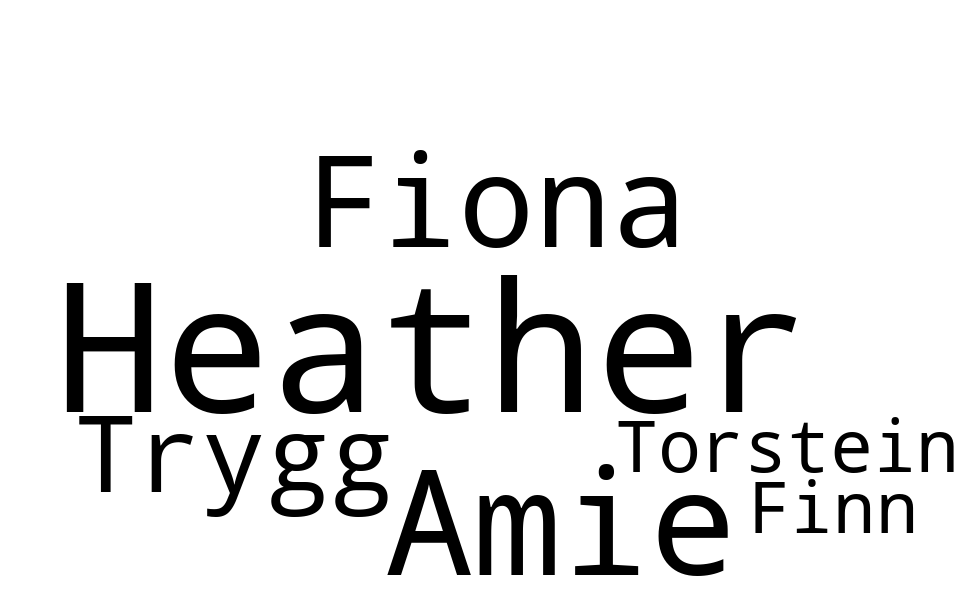
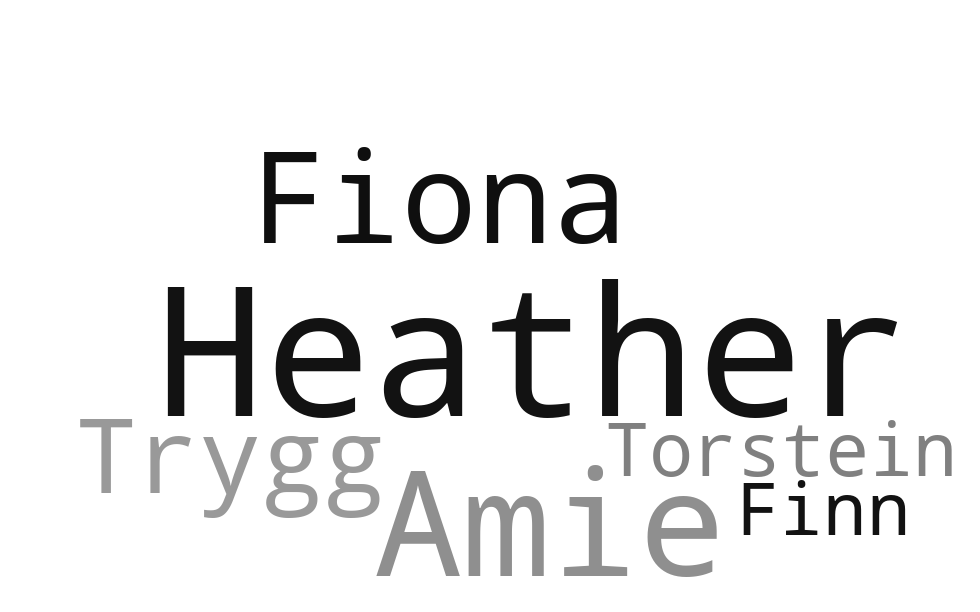
add helper functions for senders and content

Changed region(s): [[0.0612, 0.4346, 0.9796, 0.9624], [0.2449, 0.2484, 0.7041, 0.4036]]

diff --git a/messenger-wc.py b/messenger-wc.py
@@ -6,106 +6,85 @@ from PIL import Image
 import numpy as np
 from stop_words import get_stop_words
 import multidict as multidict
-norwegian_stop_words = get_stop_words('norwegian')
+
 extra_words = """
 å alle at av både båe bare begge ble blei bli blir blitt då da de deg dei deim deira deires dem den denne der dere deres det dette di din disse ditt du dykk dykkar eg ein eit eitt eller elles en enn er et ett etter før for fordi fra ha hadde han hans har hennar henne hennes her hjå ho hoe honom hoss hossen hun hva hvem hver hvilke hvilken hvis hvor hvordan hvorfor i ikke ikkje ingen ingi inkje inn inni ja jeg kan kom korleis korso kun kunne kva kvar kvarhelst kven kvi kvifor man mange me med medan meg meget mellom men mi min mine mitt mot mykje nå når ned no noe noen noka noko nokon nokor nokre og også om opp oss over på så sånn samme seg selv si sia sidan siden sin sine sitt sjøl skal skulle slik so som somme somt til um upp ut uten vår være vært var vart varte ved vere verte vi vil ville vore vors vort
 """.split()
 
-def brown_color_func(word, font_size, position, orientation,  random_state=None,  **kwargs):
-    return "hsl(20, 0%, 0%)"
+norwegian_stop_words = get_stop_words('norwegian')
 currdir = os.path.dirname(__file__)
+def color_func(word, font_size, position, orientation,  **kwargs):
+    return "hsl(20, 0%, " + str(random.randint(0,60)) + "%)"
+
 def get_json_data_from_file(filename):
     with open(filename) as f:
         data = json.load(f)
     return data
 
-
-def create_string():
-    data1 = get_json_data_from_file("message_1.json")
-    data2 = get_json_data_from_file("message_2.json")
-
-    string = ""
-    for message in data1["messages"]:
-        string += " " 
-        string += message["sender_name"].split()[0]
-    for message in data2["messages"]:
-        string += " " 
-        string += message["sender_name"].split()[0]
-    return string
-
+def update_table_senders(table, message):
+    if message["sender_name"].split()[0] in table:
+        table[message["sender_name"].split()[0]] +=1
+    else:
+        table[message["sender_name"].split()[0]] = 0
+    
 def create_table_from_senders():
     data1 = get_json_data_from_file("message_1.json")
     data2 = get_json_data_from_file("message_2.json")
 
-    maxFreq = 0
-    maxName = ""
     table =dict()
     for message in data1["messages"]:
-        if message["sender_name"].split()[0] in table:
-            table[message["sender_name"].split()[0]] +=1
-        else:
-            table[message["sender_name"].split()[0]] = 0
+        update_table_senders(table, message)
     for message in data2["messages"]:
-        if message["sender_name"].split()[0] in table:
-            table[message["sender_name"].split()[0]] +=1
-        else:
-            table[message["sender_name"].split()[0]] = 0
+        update_table_senders(table, message)
     multiDictTable = multidict.MultiDict()
-    total = 0
+    total, maxFreq, maxName = 0, 0, ""
     for key in table:
         if table[key] > maxFreq:
             maxFreq = table[key]
             maxName = key
         multiDictTable.add(key, table[key])
         total += int(table[key])
+        
     for name in table:
         print(name, " has ", int(table[name])/float(total)*100, "% ")
-    print("Max is ", maxName, " with ", maxFreq, "messages")
-    
     return multiDictTable
 
-def create_wordcloud_freq(table):
-    mask = np.array(Image.open(os.path.join(currdir, "cloud.png")))
-    stopwords = set(STOPWORDS) | set(norwegian_stop_words)
-    wc = WordCloud(stopwords=stopwords, mask=mask, background_color="white", max_words=200)
-    wc.generate_from_frequencies(table)
-    wc.recolor(color_func=brown_color_func, random_state=3)
-    wc.to_file(os.path.join(currdir, "wordcloud.png"))
+
+def update_table_content(table, message):
+    stopwords = set(STOPWORDS) | set(norwegian_stop_words) |set(extra_words)
+    if "content" in message:
+        message["content"] = message["content"].encode('latin_1').decode('utf-8')
+        content = message["content"].split()
+        for word in content:
+            word = word.lower()
+            if word not in stopwords:
+                if word in table:
+                    table[word] +=1
+                else:
+                    table[word] = 0
 
 def create_table_from_content():
     data1 = get_json_data_from_file("message_1.json")
     data2 = get_json_data_from_file("message_2.json")
 
     table =dict()
-    errors = 0
-    stopwords = set(STOPWORDS) | set(norwegian_stop_words) |set(extra_words)
     for message in data1["messages"]:
-        if "content" in message:
-            message["content"] = message["content"].encode('latin_1').decode('utf-8')
-            content = message["content"].split()
-            for word in content:
-                word = word.lower()
-                if word not in stopwords:
-                    if word in table:
-                        table[word] +=1
-                    else:
-                        table[word] = 0
+        update_table_content(table, message)
     for message in data2["messages"]:
-        if "content" in message:
-            message["content"] = message["content"].encode('latin_1').decode('utf-8')
-            content = message["content"].split()
+        update_table_content(table, message)
 
-            for word in content:
-                word = word.lower()
-                if word not in stopwords:
-                    if word in table:
-                        table[word] +=1
-                    else:
-                        table[word] = 0
     multiDictTable = multidict.MultiDict()
     for key in table:
         multiDictTable.add(key, table[key])
     return multiDictTable
+
+def create_wordcloud_freq(table):
+    mask = np.array(Image.open(os.path.join(currdir, "cloud.png")))
+    wc = WordCloud(stopwords=[], mask=mask, background_color="white", max_words=200)
+    wc.generate_from_frequencies(table)
+    wc.recolor(color_func=color_func)
+    wc.to_file(os.path.join(currdir, "wordcloud.png"))
+
 create_wordcloud_freq(create_table_from_senders())
 
 #create_wordcloud_freq(create_table_from_content())
